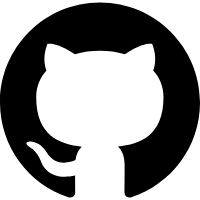
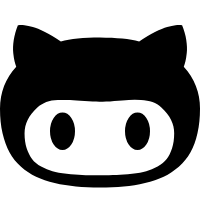
Site updated: 2018-09-29 15:33:12

diff --git a/group/index.html b/group/index.html
@@ -289,7 +289,7 @@
                                         <div class="col-md-3 col-sm-6" style="margin-top: 30px">
                                             <div class="our-team">
                                                 <div class="pic">
-                                                    <img src="/img/18.jpg">
+                                                    <img src="/img/github.png">
                                                 </div>
                                                 <div class="team-content">
                                                     <h3 class="title">github</h3>
